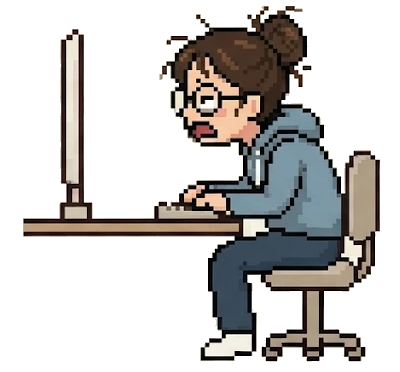
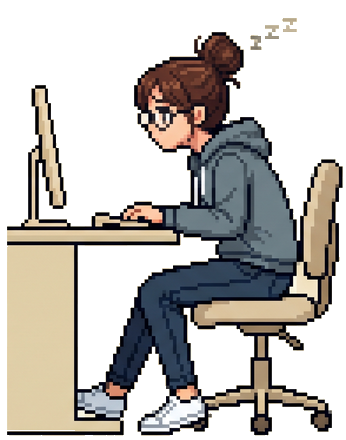
Add female images for all stages, new main image, update image status

diff --git a/tools/crop_pair.py b/tools/crop_pair.py
@@ -40,6 +40,24 @@ def erase_labels(im: "Image.Image", period: int) -> "Image.Image":
     return im
 
 
+def out_path(name: str, character: str | None, which: str) -> Path:
+    """동작 id 'default' 는 메인(기본) 그림 자리: img/default/{f|m}_{bad|good}.png"""
+    if name == "default":
+        return OUT / "default" / f"{character or 'f'}_{which}.png"
+    return OUT / f"{name}{'_' + character if character else ''}_{which}.png"
+
+
+def finish(im: "Image.Image", a) -> "Image.Image":
+    if a.height:
+        im = im.resize((round(im.width * a.height / im.height), a.height), Image.LANCZOS)
+    if a.transparent:
+        import sys
+        sys.path.insert(0, str(Path(__file__).resolve().parent))
+        from transparent import make_transparent
+        im = make_transparent(im)
+    return im
+
+
 def main() -> None:
     p = argparse.ArgumentParser()
     p.add_argument("image")
@@ -54,6 +72,8 @@ def main() -> None:
                    help="빨강 (X)/초록 (O) 글자를 위쪽 배경 무늬로 덮어 지움")
     p.add_argument("--period", type=int, default=240, help="배경 체크무늬 반복 주기(px)")
     p.add_argument("--boxes", help="자를 상자 직접 지정: 'x0,y0,x1,y1;x0,y0,x1,y1' (✕칸;○칸)")
+    p.add_argument("--height", type=int, help="저장할 때 이 높이(px)로 줄임 (예: 440)")
+    p.add_argument("--transparent", action="store_true", help="체크무늬 배경을 투명으로 (tools/transparent.py)")
     a = p.parse_args()
 
     # 위치 인자가 하나뿐이면 (--rows 모드에서 캐릭터만 준 경우) 캐릭터로 취급
@@ -72,8 +92,8 @@ def main() -> None:
         out_dir = OUT
         suffix = f"_{a.character}" if a.character else ""
         for box, which in zip(boxes, ("bad", "good")):
-            out = out_dir / f"{names[0]}{suffix}_{which}.png"
-            im.crop(box).save(out, optimize=True)
+            out = out_path(names[0], a.character, which)
+            finish(im.crop(box), a).save(out, optimize=True)
             print("저장:", out.relative_to(OUT.parent.parent.parent.parent))
         return
     row_h = H / a.rows
@@ -86,8 +106,8 @@ def main() -> None:
             cw, ch = x1 - x0, y1 - y0
             box = (int(x0 + cw * a.side), int(y0 + ch * a.top),
                    int(x1 - cw * a.side), int(y1 - ch * a.bottom))
-            out = OUT / f"{name}{suffix}_{which}.png"
-            im.crop(box).save(out, optimize=True)
+            out = out_path(name, a.character, which)
+            finish(im.crop(box), a).save(out, optimize=True)
             print("저장:", out.relative_to(OUT.parent.parent.parent.parent))
 
 
